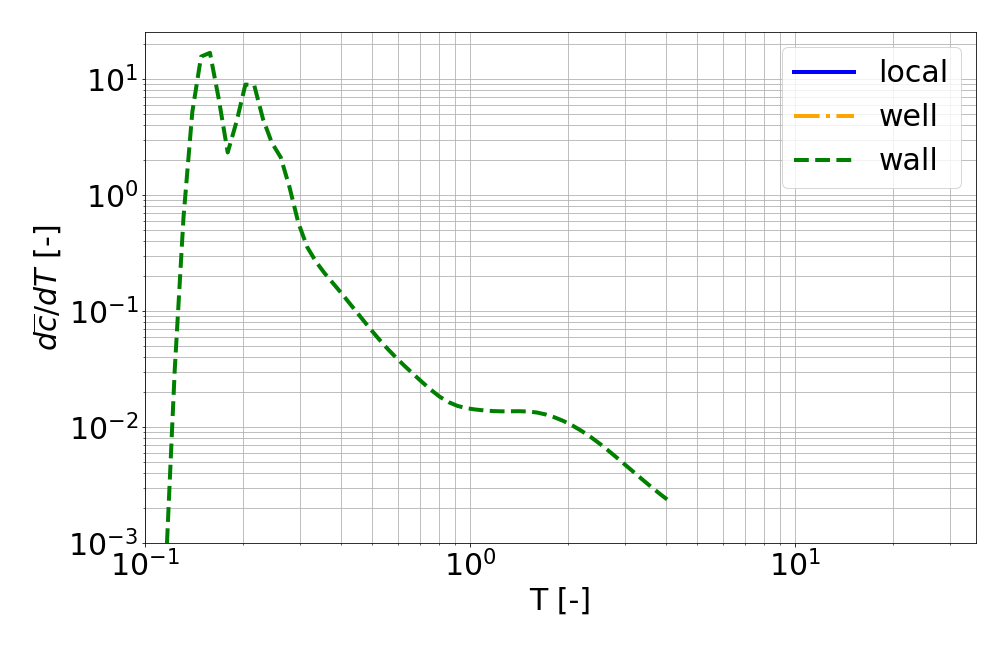
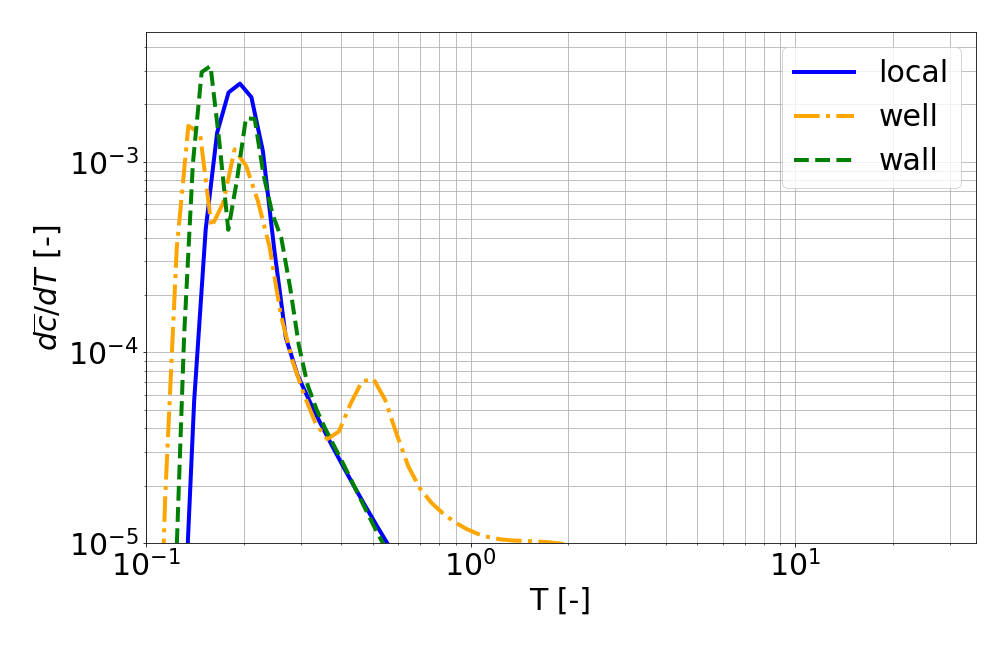
Injection area dc/dt normalised

Changed region(s): [[0.0615, 0.0617, 0.9841, 0.8951]]

diff --git a/etc/Python/simAnalyser.py b/etc/Python/simAnalyser.py
@@ -240,7 +240,7 @@ plt.figure(figsize=(14, 9))
 for j in range(0, sim, interval):
     plt.loglog(tLS[j], dcLS[j], ls="%s" % lin[j], color="%s" % col[j], lw=4, label="%s" % lab[j])
     plt.legend(loc="best", fontsize=30)
-    plt.axis([0.1, max(max(tLS, key=max)), 1e-3, max(max(dcLS, key=max))+0.5*max(max(dcLS, key=max))])
+    plt.axis([0.1, max(max(tLS, key=max)), 1e-5, max(max(dcLS, key=max))+0.5*max(max(dcLS, key=max))])
     plt.xlabel("T [-]")
     plt.ylabel("$d\overline{c}/dT$ [-]")
     plt.grid(True, which="both")
@@ -252,7 +252,7 @@ os.makedirs(os.path.join(saveFolderPath, "../images"), exist_ok = True)
 # plt.savefig(os.path.join(saveFolderPath, "../images/increasingLxLC.png"))
 # plt.savefig(os.path.join(latexFolderPath, "images/increasingLxLC.png"))
 # plt.savefig(os.path.join(saveFolderPath, "../images/HertenBTCdifferentKdc.png"))
-#plt.savefig(os.path.join(saveFolderPath, "../images/realismDegreeDC.png"))
+# plt.savefig(os.path.join(saveFolderPath, "../images/realismDegreeDC.png"))
 # plt.savefig(os.path.join(saveFolderPath, "../images/varMecDispDC.png"))
 # plt.savefig(os.path.join(saveFolderPath, "../images/varPecletDC.png"))
 plt.savefig(os.path.join(saveFolderPath, "../images/injectionAreaDC.png"))
@@ -292,8 +292,8 @@ plt.tight_layout()
 os.makedirs(os.path.join(saveFolderPath, "../images"), exist_ok = True)
 # plt.savefig(os.path.join(latexFolderPath, "images/lowHighCcdf.png"))
 # plt.savefig(os.path.join(saveFolderPath, "../images/HertenBTCdifferentK.png"))
-plt.savefig(os.path.join(latexFolderPath, "images/injectionArea.png"))
-plt.savefig(os.path.join(saveFolderPath, "../images/injectionArea.png"))
+# plt.savefig(os.path.join(latexFolderPath, "images/injectionArea.png"))
+# plt.savefig(os.path.join(saveFolderPath, "../images/injectionArea.png"))
 
 # plt.figure(figsize=(14, 9))
 # plt.plot(tt[i], yVG[i], color='r', label="vanGenuchten")

diff --git a/etc/Python/logAveraging.py b/etc/Python/logAveraging.py
@@ -8,11 +8,11 @@
 """
 import numpy as np
 
-def logAve(ndT, cBoolean, sdc, s, tLS, dcLS, dcLSnorm):
+def logAve(ndT, cBoolean, dCnorm, s, tLS, dcLS, dcLSnorm):
     tLog = [] # List needed to store the new average times which comes after log-binning
     dcLog = [] # List needed to store the new average concentrations which comes after log-binning
     tThrs = [round(val, 10) for z, val in enumerate(ndT[:-s]) if cBoolean[z]] # it selects the time only if cBoolean is True
-    dcThrs = [round(val, 10) for z, val in enumerate(sdc) if cBoolean[z]]
+    dcThrs = [round(val, 10) for z, val in enumerate(dCnorm) if cBoolean[z]]
     logSpacing = np.logspace(np.log10(min(tThrs)+1e-6), np.log10(max(tThrs)), 150, endpoint=True) # Log-spaced list whose values range between time boundaries 
     logSpacing = np.insert(logSpacing, 0, 0) # it adds 0 at the 0th position
     for k in range(0, len(logSpacing)-1, 1):

diff --git a/etc/Python/Process.py b/etc/Python/Process.py
@@ -28,7 +28,7 @@ def processConc(path, dd, mvel, c, t, Xbox, s, D, Y, dCnorm, dc, tt, Tadv, tLS, 
     sdc = pd.Series(sdc).rolling(window=n).mean().iloc[s-1:].values # Rolling window average
     dc.append(sdc)
     dCnorm.append(sdc/sum(sdc))    
-    logAve(ndT, cBoolean, sdc, s, tLS, dcLS, dcLSnorm) # Log binning and averaging function. It smooths the noise of the concentration derivative tails
+    logAve(ndT, cBoolean, sdc/sum(sdc), s, tLS, dcLS, dcLSnorm) # Log binning and averaging function. It smooths the noise of the concentration derivative tails
     
     # Inverse Gaussian parameters estimation
     c_DT = [] # Needed to perform the dot product
